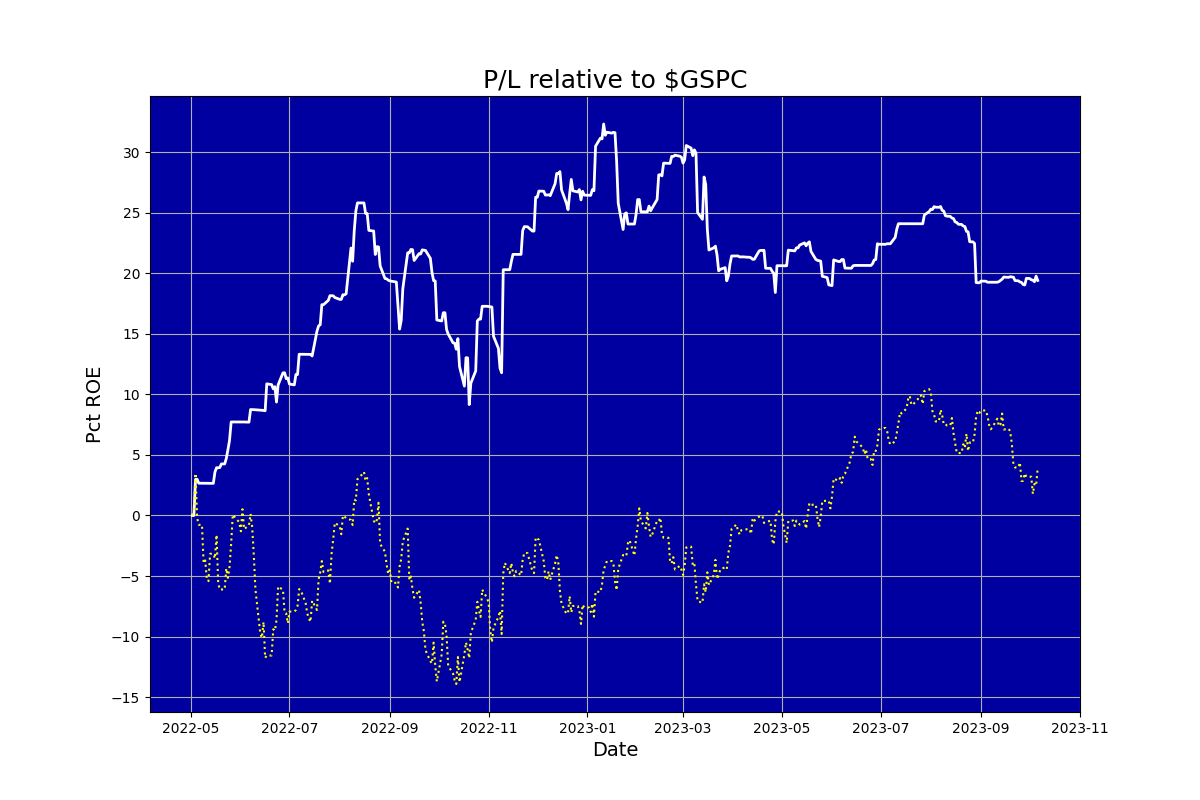
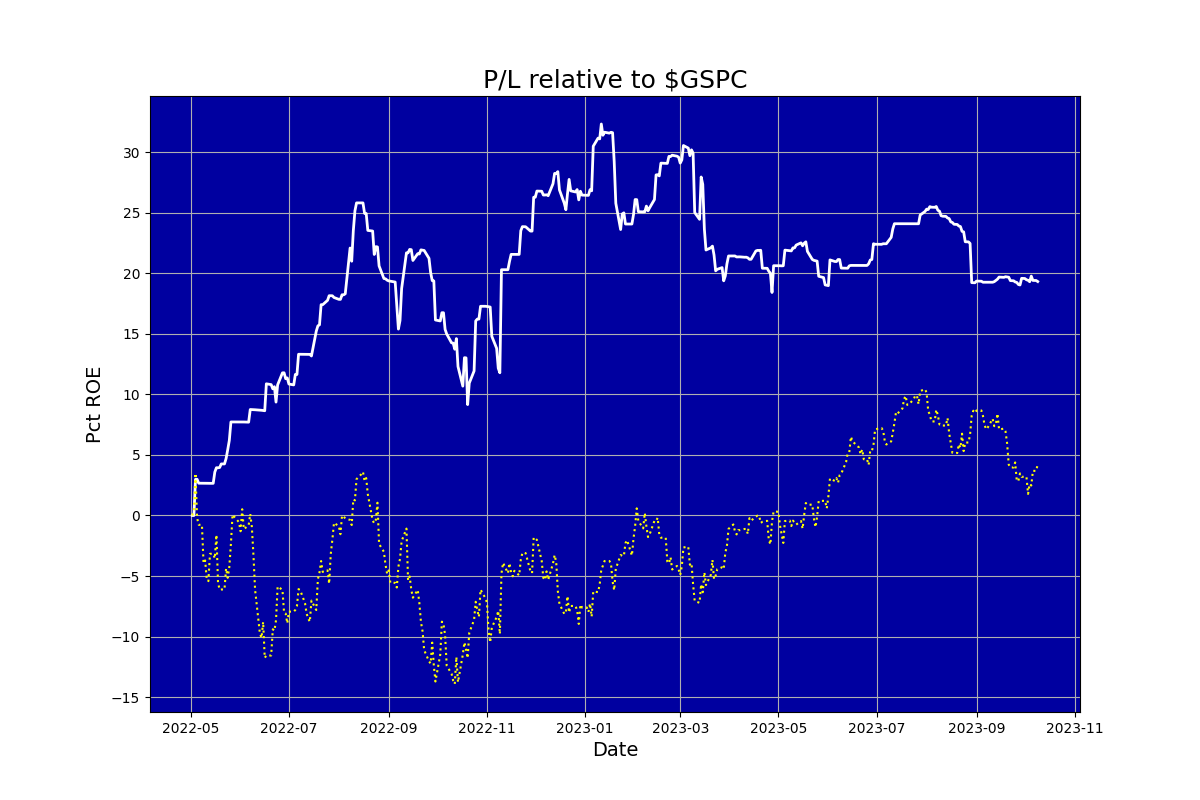
Updated

diff --git a/ig_report.html b/ig_report.html
@@ -1,1 +1,1 @@
-<html><body><center><h1>Auriel (never knowingly overbought)</h1></center><table cols=2><tr><td><img src=ig_pl.png></td><td><table cols=2><tr><td colspan=2><b><br>Snapshot</b></td></tr><tr><td>Last updated:&nbsp;&nbsp;&nbsp;</td><td>2023-10-06 15:55</td></tr><tr><td>Margin:&nbsp;&nbsp;&nbsp;</td><td>0.42</td></tr><tr><td>Cushion:&nbsp;&nbsp;&nbsp;</td><td>-44860.32</td></tr><tr><td>Last closed trade:&nbsp;&nbsp;&nbsp;</td><td>2023-10-06</td></tr><tr><td colspan=2><b><br>Positions</b></td></tr><tr><td>Mean days to new high:&nbsp;&nbsp;&nbsp;</td><td>16.81</td></tr><tr><td colspan=2><b><br>Trades</b></td></tr><tr><td>Traded days:&nbsp;&nbsp;&nbsp;</td><td>383</td></tr><tr><td>Profitable days pct:&nbsp;&nbsp;&nbsp;</td><td>34.73</td></tr><tr><td>Days beat S&P pct:&nbsp;&nbsp;&nbsp;</td><td>54.02</td></tr><tr><td>Profitable months pct:&nbsp;&nbsp;&nbsp;</td><td>61.11</td></tr><tr><td colspan=2><b><br>Performance</b></td></tr><tr><td>Pct median monthly ROE:&nbsp;&nbsp;&nbsp;</td><td>0.75</td></tr><tr><td>Pct annualised ROE:&nbsp;&nbsp;&nbsp;</td><td>12.67</td></tr><tr><td colspan=2><b><br>Risk</b></td></tr><tr><td>Volatility pct:&nbsp;&nbsp;&nbsp;</td><td>16.58</td></tr><tr><td>Benchmark volatility pct:&nbsp;&nbsp;&nbsp;</td><td>19.73</td></tr><tr><td>Sharpe ratio (RFR 5.0%):&nbsp;&nbsp;&nbsp;</td><td>0.56</td></tr><tr><td>Sortino ratio (RFR 5.0%):&nbsp;&nbsp;&nbsp;</td><td>0.75</td></tr><tr><td>Calmar ratio:&nbsp;&nbsp;&nbsp;</td><td>0.76</td></tr><tr><td>Worst drawdown pct:&nbsp;&nbsp;&nbsp;</td><td>-0.17</td></tr><tr><td>Recovery days from worst drawdown:&nbsp;&nbsp;&nbsp;</td><td>29.00</td></tr><tr><td>Beat benchmark +ve periods pct:&nbsp;&nbsp;&nbsp;</td><td>31.81</td></tr><tr><td>Beat benchmark -ve periods pct:&nbsp;&nbsp;&nbsp;</td><td>84.33</td></tr><tr><td>Correlation with benchmark:&nbsp;&nbsp;&nbsp;</td><td>0.33</td></tr></table></td></tr></table></body></html>
+<html><body><center><h1>Auriel (never knowingly overbought)</h1></center><table cols=2><tr><td><img src=ig_pl.png></td><td><table cols=2><tr><td colspan=2><b><br>Snapshot</b></td></tr><tr><td>Last updated:&nbsp;&nbsp;&nbsp;</td><td>2023-10-09 15:54</td></tr><tr><td>Margin:&nbsp;&nbsp;&nbsp;</td><td>0.44</td></tr><tr><td>Cushion:&nbsp;&nbsp;&nbsp;</td><td>-45055.21</td></tr><tr><td>Last closed trade:&nbsp;&nbsp;&nbsp;</td><td>2023-10-09</td></tr><tr><td colspan=2><b><br>Positions</b></td></tr><tr><td>Mean days to new high:&nbsp;&nbsp;&nbsp;</td><td>16.96</td></tr><tr><td colspan=2><b><br>Trades</b></td></tr><tr><td>Traded days:&nbsp;&nbsp;&nbsp;</td><td>385</td></tr><tr><td>Profitable days pct:&nbsp;&nbsp;&nbsp;</td><td>34.55</td></tr><tr><td>Days beat S&P pct:&nbsp;&nbsp;&nbsp;</td><td>53.87</td></tr><tr><td>Profitable months pct:&nbsp;&nbsp;&nbsp;</td><td>61.11</td></tr><tr><td colspan=2><b><br>Performance</b></td></tr><tr><td>Pct median monthly ROE:&nbsp;&nbsp;&nbsp;</td><td>0.75</td></tr><tr><td>Pct annualised ROE:&nbsp;&nbsp;&nbsp;</td><td>12.54</td></tr><tr><td colspan=2><b><br>Risk</b></td></tr><tr><td>Volatility pct:&nbsp;&nbsp;&nbsp;</td><td>16.54</td></tr><tr><td>Benchmark volatility pct:&nbsp;&nbsp;&nbsp;</td><td>19.68</td></tr><tr><td>Sharpe ratio (RFR 5.0%):&nbsp;&nbsp;&nbsp;</td><td>0.56</td></tr><tr><td>Sortino ratio (RFR 5.0%):&nbsp;&nbsp;&nbsp;</td><td>0.74</td></tr><tr><td>Calmar ratio:&nbsp;&nbsp;&nbsp;</td><td>0.75</td></tr><tr><td>Worst drawdown pct:&nbsp;&nbsp;&nbsp;</td><td>-0.17</td></tr><tr><td>Recovery days from worst drawdown:&nbsp;&nbsp;&nbsp;</td><td>29.00</td></tr><tr><td>Beat benchmark +ve periods pct:&nbsp;&nbsp;&nbsp;</td><td>31.58</td></tr><tr><td>Beat benchmark -ve periods pct:&nbsp;&nbsp;&nbsp;</td><td>84.04</td></tr><tr><td>Correlation with benchmark:&nbsp;&nbsp;&nbsp;</td><td>0.33</td></tr></table></td></tr></table></body></html>
